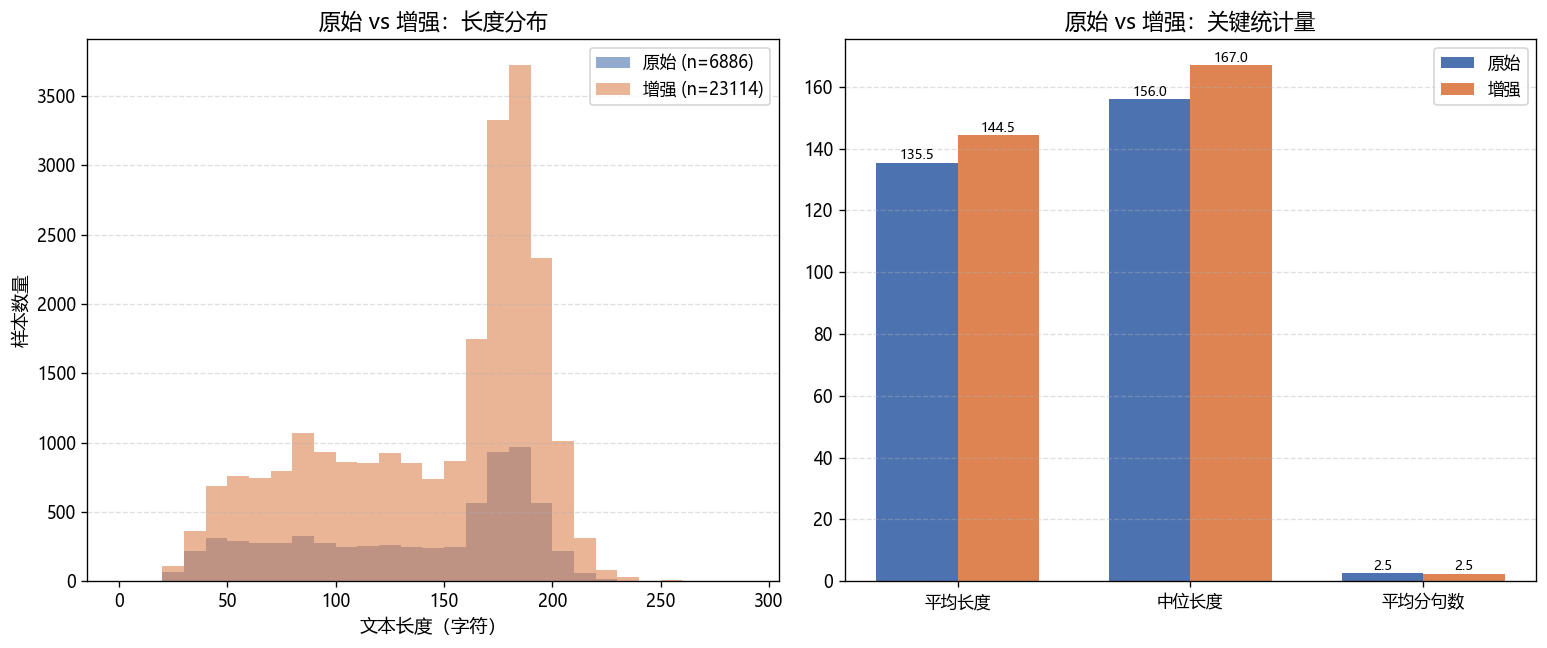
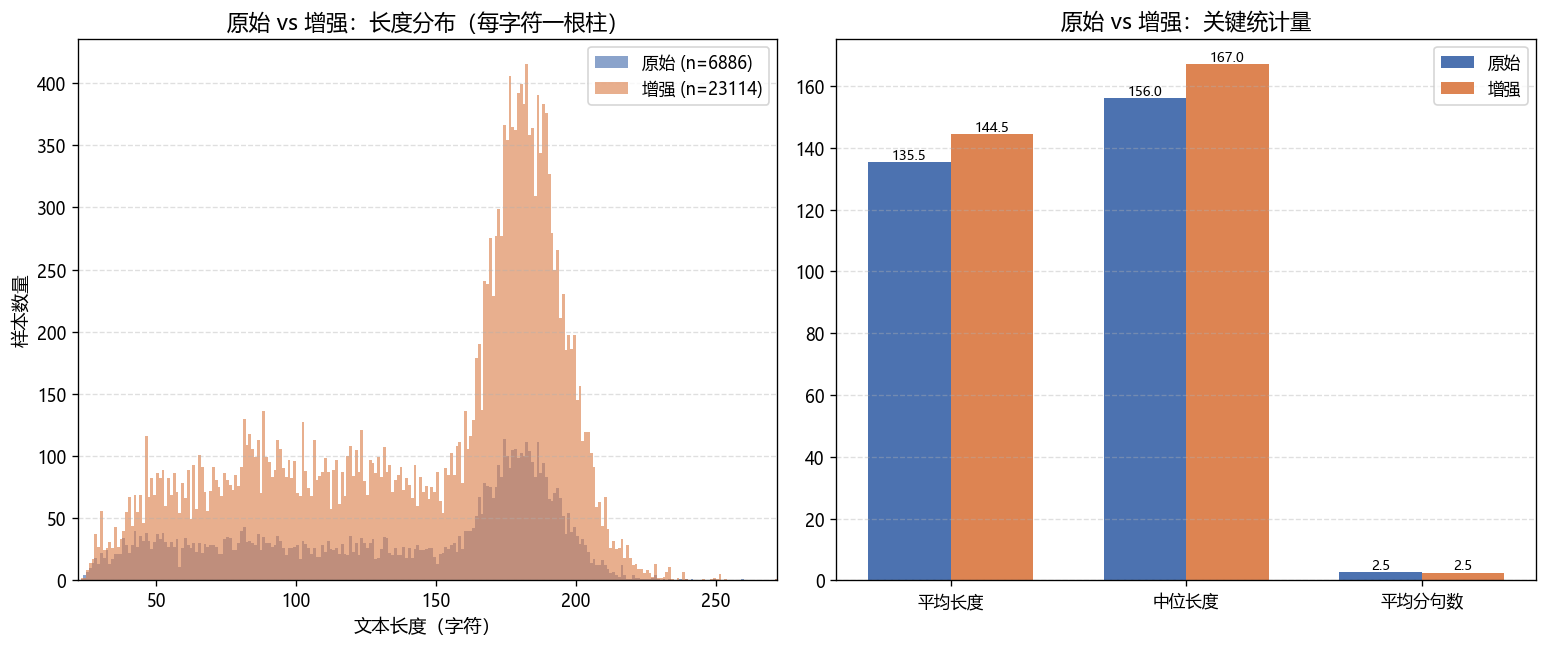
style(eda): 长度分布图改为每字符一根柱（全样本与原始/增强对比）

diff --git a/eda/eda.py b/eda/eda.py
@@ -192,13 +192,18 @@ def fig_all_length_hist(rows, out):
     mean = statistics.mean(lens)
     med = statistics.median(lens)
 
-    fig, ax = plt.subplots(figsize=(11, 6))
-    ax.hist(lens, bins=50, color=CLR_ALL, alpha=0.75, edgecolor="white")
+    # 每个整数长度对应一根柱子（不合并区间）
+    lo, hi = min(lens), max(lens)
+    bins = list(range(lo, hi + 2))
+
+    fig, ax = plt.subplots(figsize=(13, 6))
+    ax.hist(lens, bins=bins, color=CLR_ALL, alpha=0.85, edgecolor="white", linewidth=0.3)
     ax.axvline(mean, color="red", ls="--", lw=2, label=f"均值 = {mean:.0f}")
     ax.axvline(med, color="blue", ls="-.", lw=2, label=f"中位数 = {med:.0f}")
-    ax.set_title("全部样本长度分布（字符数）", fontsize=14)
+    ax.set_title("全部样本长度分布（每字符一根柱）", fontsize=14)
     ax.set_xlabel("文本长度（字符）", fontsize=11)
     ax.set_ylabel("样本数量", fontsize=11)
+    ax.set_xlim(lo - 1, hi + 1)
     ax.legend()
     ax.grid(axis="y", ls="--", alpha=0.4)
     fig.savefig(out)
@@ -255,14 +260,17 @@ def fig_orig_vs_aug(rows, out):
 
     fig, axes = plt.subplots(1, 2, figsize=(13, 5.5))
 
-    # 左：长度分布对比（直方图叠加）
+    # 左：长度分布对比（每个整数长度一根柱子）
     ax = axes[0]
-    bins = list(range(0, 300, 10))
-    ax.hist(orig, bins=bins, color=CLR_MAIN, alpha=0.6, label=f"原始 (n={len(orig)})")
-    ax.hist(aug, bins=bins, color=CLR_AUG, alpha=0.6, label=f"增强 (n={len(aug)})")
-    ax.set_title("原始 vs 增强：长度分布", fontsize=13)
+    lo = min(min(orig), min(aug))
+    hi = max(max(orig), max(aug))
+    bins = list(range(lo, hi + 2))
+    ax.hist(orig, bins=bins, color=CLR_MAIN, alpha=0.65, label=f"原始 (n={len(orig)})")
+    ax.hist(aug, bins=bins, color=CLR_AUG, alpha=0.65, label=f"增强 (n={len(aug)})")
+    ax.set_title("原始 vs 增强：长度分布（每字符一根柱）", fontsize=13)
     ax.set_xlabel("文本长度（字符）", fontsize=11)
     ax.set_ylabel("样本数量", fontsize=11)
+    ax.set_xlim(lo - 1, hi + 1)
     ax.legend()
     ax.grid(axis="y", ls="--", alpha=0.4)
 

diff --git a/eda/EDA.md b/eda/EDA.md
@@ -75,11 +75,11 @@ python eda/eda.py
 
 ![全部样本长度分布](figures/04_all_length_hist.png)
 
-图 4 把全部 30,000 条样本的长度画成直方图，红色虚线为均值（142），蓝色点划线为中位数（165）。
+图 4 把全部 30,000 条样本的长度画成直方图，红色虚线为均值（142），蓝色点划线为中位数（165）。这里每个字符长度对应一根柱子（不合并区间），因此可以直接读出某个具体长度上有多少条样本。
 
 这张图清楚解释了开头那个"均值小于中位数"的现象：
 
-- **主峰在 150~200**：绝大多数样本长度落在这个区间，正文主体偏长。
+- **主峰在 150~200**：绝大多数样本长度落在这个区间，正文主体偏长，且柱高起伏能看到细节。
 - **左侧拖尾**：在 40~130 之间有一片不高但铺得很开的"平原"，对应那批短样本。正是这些短样本把均值从 165 拉低到 142。
 
 从建模角度看，这个分布对传统机器学习模型是有利的——长度集中意味着定长截断/填充造成的损失可控。
@@ -115,7 +115,7 @@ python eda/eda.py
 
 ![原始与增强对比](figures/06_orig_vs_aug.png)
 
-**左图：长度分布叠加。** 原始样本（蓝）的分布明显更"扁"、覆盖范围更宽；增强样本（橙）则形成一个高而窄的尖峰，集中在 160~190 之间。这说明规则增强很可能是围绕原始样本中的长文本做了规范化改写，导致增强后的长度更趋同。
+**左图：长度分布叠加。** 原始样本（蓝）的分布明显更"扁"、覆盖范围更宽；增强样本（橙）则形成一个高而窄的尖峰，集中在 160~190 之间。同样的，这里每个字符长度对应一根柱子，能看清尖峰内部的细节起伏。这说明规则增强很可能是围绕原始样本中的长文本做了规范化改写，导致增强后的长度更趋同。
 
 **右图：关键统计量对比。**
 
